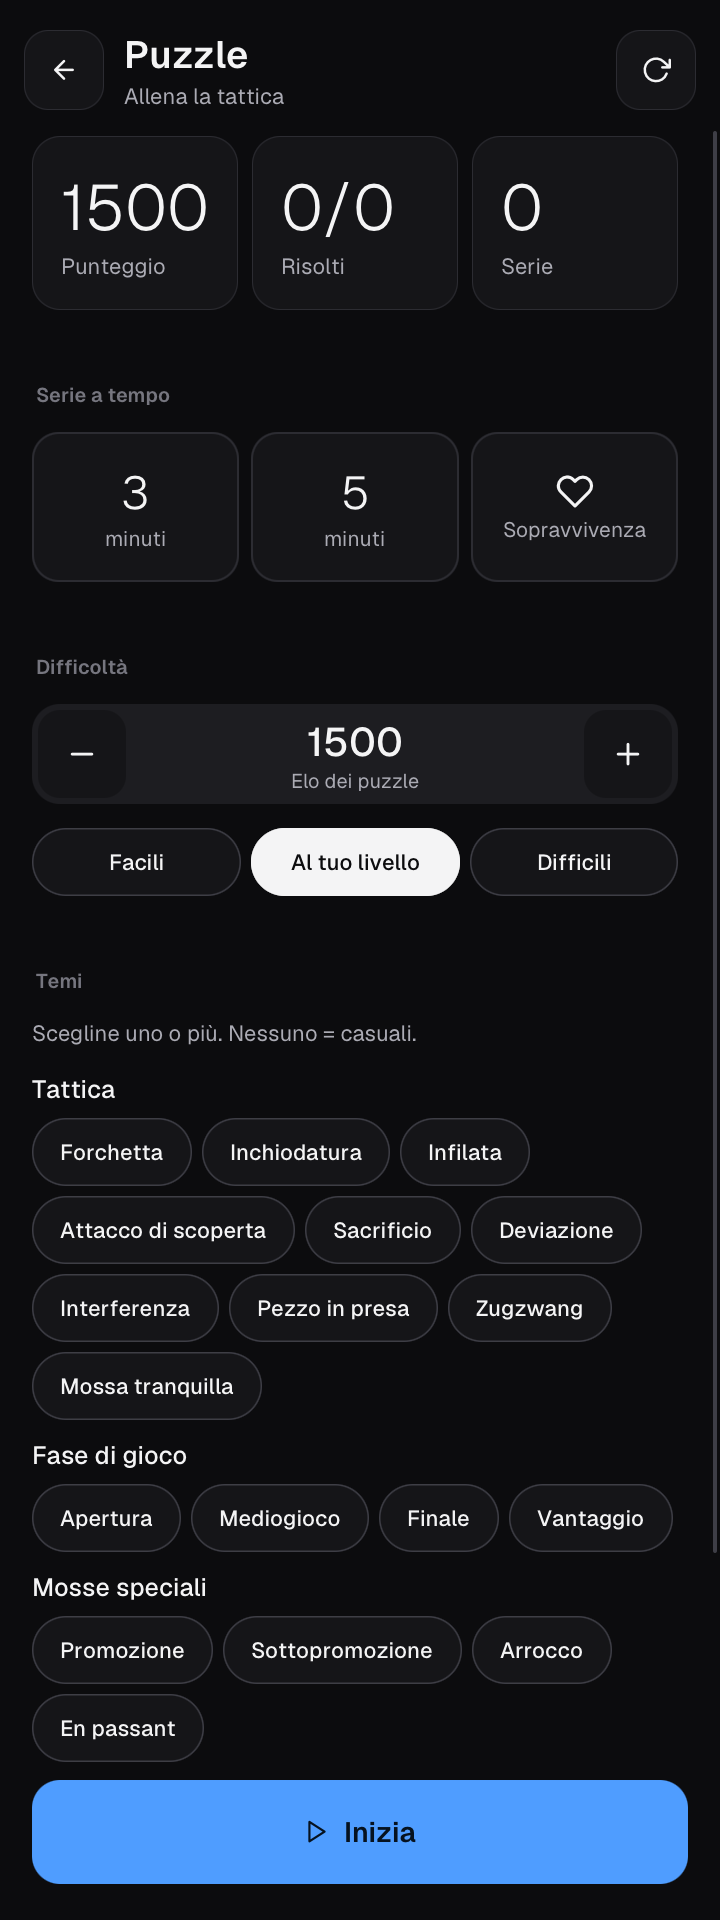
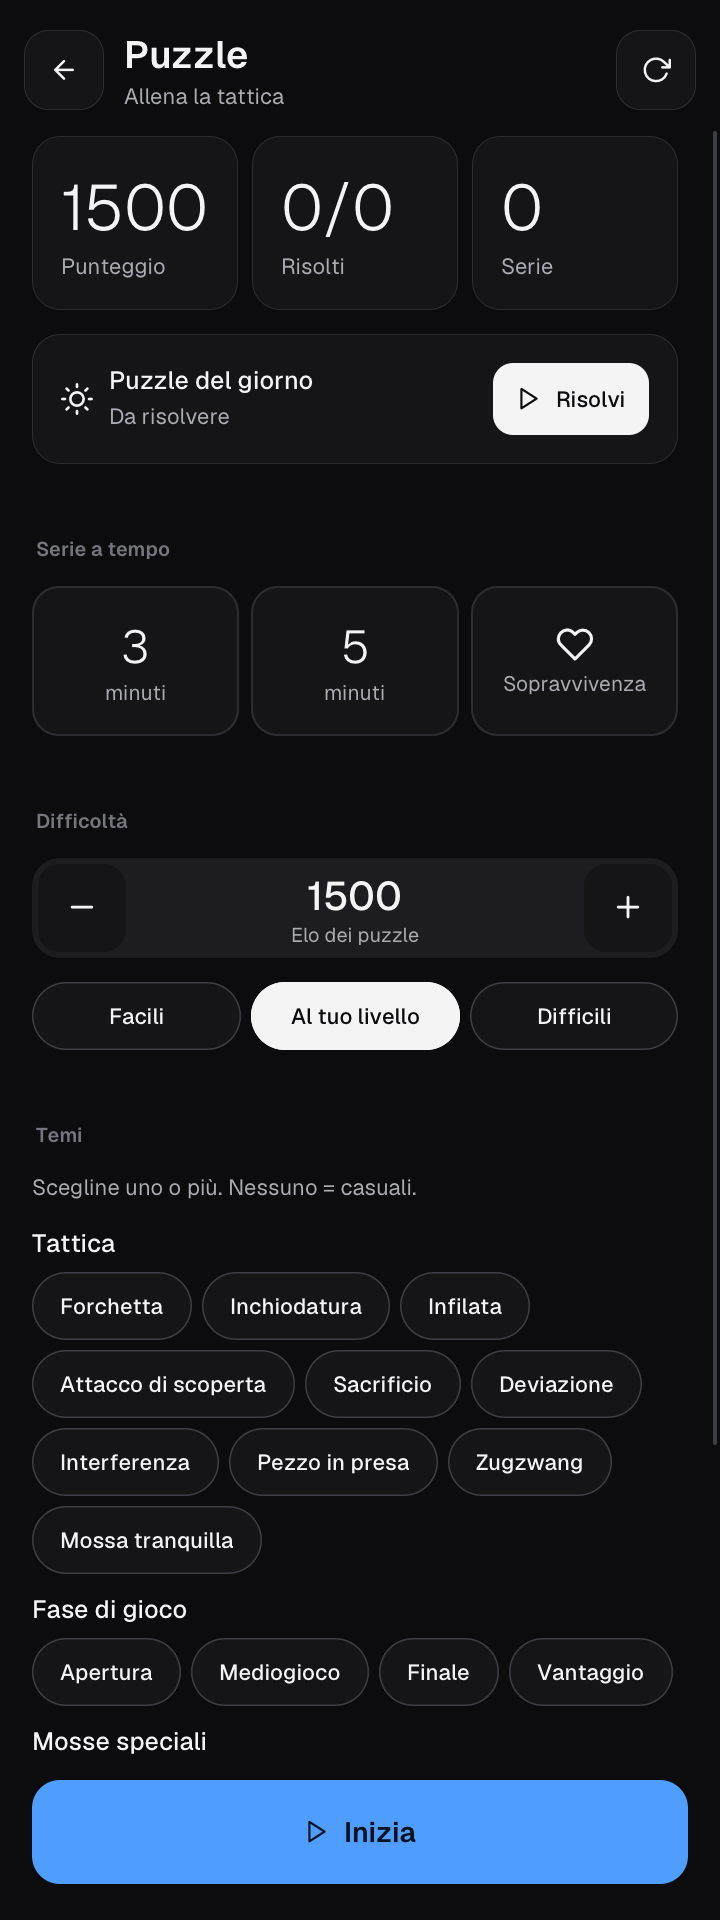
Daily puzzle: card on the puzzle dashboard, result counted once a day
Play.DailyPuzzle (features spec 06 §5): the card shows today's status and
streak and is hidden without the puzzle database; the puzzle opens with its own
subtitle and records the result once (off the FX thread), later tries are
ordinary puzzles. Docs and the dashboard screenshot updated.

diff --git a/src/main/java/io/github/hardin22/javachess/Controllers/PuzzleDashboardController.java b/src/main/java/io/github/hardin22/javachess/Controllers/PuzzleDashboardController.java
@@ -89,8 +89,10 @@ public class PuzzleDashboardController implements Screen {
             themes.getChildren().add(new VBox(12, Ui.label(I18n.t(section.getKey()), "row-title"), chips));
         }
 
+        dailyCard.setVisible(false);
+        dailyCard.setManaged(false);
         VBox body = new VBox(16,
-                stats,
+                stats, dailyCard,
                 Ui.gap(8), Ui.sectionLabel(I18n.t("puzzle.rush")), rushRow(),
                 reviewCard, weakBox,
                 Ui.gap(8), Ui.sectionLabel(I18n.t("puzzle.rating")), difficulty, quick,
@@ -109,6 +111,40 @@ public class PuzzleDashboardController implements Screen {
     private javafx.scene.Node content;
     private VBox footer;
     private final VBox reviewCard = new VBox(12);
+    private final VBox dailyCard = new VBox();
+    private final io.github.hardin22.javachess.Play.DailyPuzzle daily = new io.github.hardin22.javachess.Play.DailyPuzzle();
+
+    /** "Puzzle del giorno": shown only when the puzzle database gives one (works offline). */
+    private void refreshDaily() {
+        daily.load().whenComplete((puzzle, error) -> Platform.runLater(() -> {
+            boolean show = error == null && puzzle != null;
+            dailyCard.setVisible(show);
+            dailyCard.setManaged(show);
+            dailyCard.getChildren().clear();
+            if (!show) {
+                return;
+            }
+            Label title = Ui.label(I18n.t("puzzle.daily"), "row-title");
+            Label state = Ui.wrap(daily.statusText(), "t-small", daily.solvedToday() ? "t-ok" : "t-muted");
+            VBox texts = new VBox(4, title, state);
+            HBox.setHgrow(texts, javafx.scene.layout.Priority.ALWAYS);
+            Button go = Ui.button(I18n.t(daily.doneToday() ? "puzzle.daily.again" : "puzzle.daily.start"),
+                    daily.doneToday() ? "fth-rotate-ccw" : "fth-play", daily.doneToday() ? "btn-outline" : "btn-inverse",
+                    "btn-md");
+            go.setId("puzzle-daily");
+            go.setMinWidth(javafx.scene.layout.Region.USE_PREF_SIZE);
+            go.setOnAction(e -> {
+                PuzzleController controller = (PuzzleController) mainController.getController("PUZZLE_GAME");
+                mainController.navigateTo("PUZZLE_GAME");
+                controller.startDaily(puzzle, daily);
+            });
+            HBox row = new HBox(16, io.github.hardin22.javachess.Components.Icons.of("fth-sun", 32), texts, go);
+            row.setAlignment(Pos.CENTER_LEFT);
+            row.getStyleClass().add("card");
+            row.setPadding(new Insets(20, 22, 20, 22));
+            dailyCard.getChildren().add(row);
+        }));
+    }
     private final VBox weakBox = new VBox(12);
     private final List<Label> rushRecords = new ArrayList<>();
 
@@ -231,6 +267,7 @@ public class PuzzleDashboardController implements Screen {
 
     @Override
     public void onNavigatedTo() {
+        refreshDaily();
         io.github.hardin22.javachess.Utils.AppExecutors.io().execute(() -> {
             var stats = io.github.hardin22.javachess.Services.PuzzleProgressService.getInstance().getStats();
             boolean missing = !PuzzleService.hasPuzzleData() && !Boolean.getBoolean("javachess.demo.puzzlesUi");

diff --git a/src/main/java/io/github/hardin22/javachess/Controllers/PuzzleController.java b/src/main/java/io/github/hardin22/javachess/Controllers/PuzzleController.java
@@ -62,6 +62,8 @@ public class PuzzleController implements Screen {
 
     private Mode mode = Mode.NORMAL;
     private PuzzleRush rush;
+    /** Set while today's puzzle is being played: its result is recorded once, then cleared. */
+    private io.github.hardin22.javachess.Play.DailyPuzzle daily;
     private final List<Runnable> rushUnbind = new java.util.ArrayList<>();
     private final Label rushTime = Ui.label("", "rush-time");
     private final Label rushScore = Ui.label("0", "t-number");
@@ -254,6 +256,15 @@ public class PuzzleController implements Screen {
         setPuzzle(puzzle, targetRating, themes);
     }
 
+    /** Today's puzzle (the dashboard card): the same one all day, its result counted once for the daily streak. */
+    public void startDaily(Puzzle puzzle, io.github.hardin22.javachess.Play.DailyPuzzle today) {
+        leaveRush();
+        daily = today.doneToday() ? null : today;
+        configureGame();
+        setPuzzle(puzzle, puzzle.getRating(), java.util.Collections.singletonList("Tutti"));
+        header.setSubtitle(I18n.t("puzzle.daily.subtitle", puzzle.getRating()));
+    }
+
     public void setPuzzle(Puzzle puzzle, int targetRating, List<String> themes) {
         this.currentTargetRating = targetRating;
         this.currentThemes = themes;
@@ -420,6 +431,24 @@ public class PuzzleController implements Screen {
         boolean inRush = mode == Mode.RUSH && rush != null;
         puzzleGame.setRated(!inRush);
         PuzzleRush series = rush;
+        io.github.hardin22.javachess.Play.DailyPuzzle today = inRush ? null : daily;
+        if (today != null) {
+            puzzleGame.setResultListener(new PuzzleGame.ResultListener() {
+                @Override
+                public void finished(Puzzle puzzle, boolean solved, boolean clean) {
+                    io.github.hardin22.javachess.Utils.AppExecutors.storage().execute(() -> today.recordResult(solved));
+                    Platform.runLater(() -> {
+                        daily = null; // the next puzzle is an ordinary one
+                        configureGame();
+                    });
+                }
+
+                @Override
+                public void wrongMove(Puzzle puzzle) {
+                }
+            });
+            return;
+        }
         puzzleGame.setResultListener(!inRush ? null : new PuzzleGame.ResultListener() {
             @Override
             public void finished(Puzzle puzzle, boolean solved, boolean clean) {
@@ -440,6 +469,7 @@ public class PuzzleController implements Screen {
     }
 
     private void leaveRush() {
+        daily = null;
         rushUnbind.forEach(Runnable::run);
         rushUnbind.clear();
         if (rush != null) {

diff --git a/src/main/java/io/github/hardin22/javachess/Application/DevDemos.java b/src/main/java/io/github/hardin22/javachess/Application/DevDemos.java
@@ -146,6 +146,10 @@ final class DevDemos {
                             System.getProperty("javachess.demo.fen",
                                     "r1bqkbnr/pppp1ppp/2n5/4p3/2B1P3/5N2/PPPP1PPP/RNBQK2R b KQkq - 3 3")));
                 }
+                case "puzzle-daily" -> {
+                    main.navigateTo("PUZZLE_DASHBOARD");
+                    later(2.0, () -> lookupFire(main, "puzzle-daily"));
+                }
                 case "drill" -> {
                     var drill = io.github.hardin22.javachess.Training.EndgameDrills.byId(
                             System.getProperty("javachess.demo.drill", "")).orElse(

diff --git a/docs/design/SUMMARY.md b/docs/design/SUMMARY.md
@@ -125,6 +125,9 @@ e cosa è cambiato nel codice.
   · passo 4 di 9 / Posiziona le Torri nere / a8, f8» con **Salta guida**; «Togli 2 pezzi dalle case rosse» (con
   «Poi il Re bianco in g1» quando serve); «Mancano 6 pezzi / Togli 2 pezzi dalle case rosse» senza guida. Il ritiro
   fatto rimettendo indietro i pezzi contro il computer mostra «Mossa annullata / Tocca a te».
+- **Puzzle del giorno** (spec 06 §5, `Play.DailyPuzzle`): carta in cima alla dashboard dei puzzle (solo se il
+  database c'è), il puzzle si apre con il sottotitolo «Puzzle del giorno · Elo 1784» e il risultato conta una volta
+  sola per la serie di giorni.
 - **Orizzontale 1920×720**: Home con le due partite affiancate e i quattro riquadri in una riga; nei pannelli
   laterali (allenamenti, rigioca gli errori) carta ed extra scorrono sopra gli strumenti fissi; in revisione
   «Vedi la migliore» è un pulsante con l'occhio nella colonna stretta.

diff --git a/docs/design/UX.md b/docs/design/UX.md
@@ -144,7 +144,9 @@ Senza scacchiera collegata si può muovere toccando lo schermo (pezzo → punti 
   Rivedi, Nuova partita, Home.
 
 ### Puzzle
-- Pannello: punteggio, serie e risolti; **Serie a tempo** (tre tessere: 3 minuti, 5 minuti, Sopravvivenza, con il
+- Pannello: punteggio, serie e risolti; **Puzzle del giorno** (lo stesso per tutta la giornata, senza rete, con la
+  serie di giorni: «Da risolvere · serie di 3 giorni» → Risolvi, «Risolto · 4 giorni di fila» → Riprova; nascosto
+  senza database); **Serie a tempo** (tre tessere: 3 minuti, 5 minuti, Sopravvivenza, con il
   record); **Ripasso** («7 puzzle sbagliati da rifare» → Ripassa) e **Punti deboli** (i temi con la percentuale più
   bassa: un tocco allena quel tema) quando ci sono; difficoltà con − / + a passi di 50; temi a chip; **Inizia**.
 - Puzzle: orientato verso chi muove; scacchiera, carta di stato grande (trova la mossa / giusto / sbagliato),
